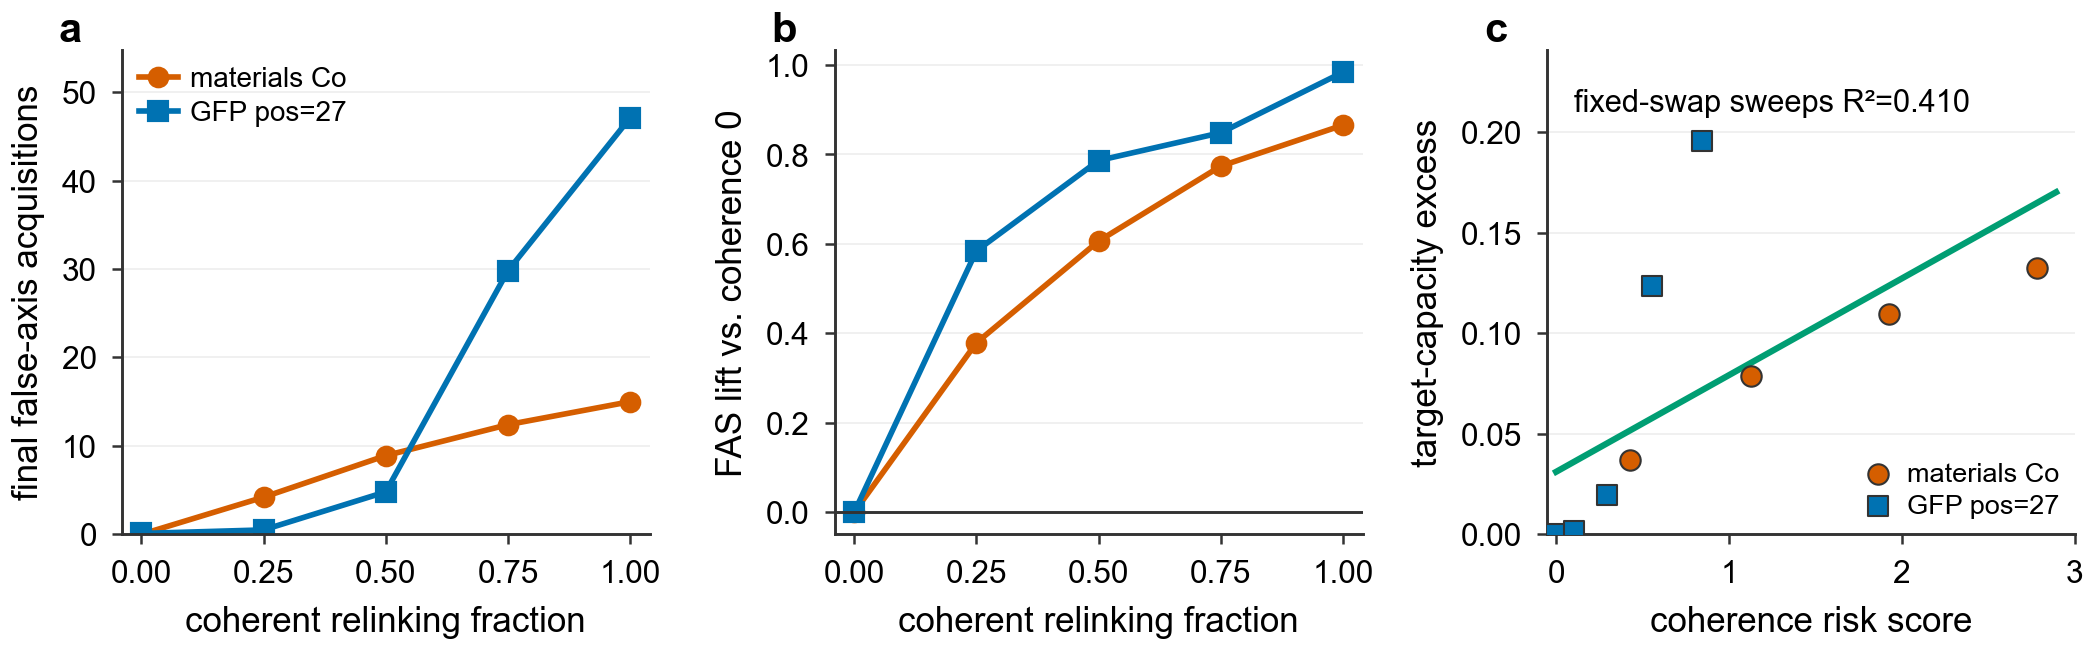
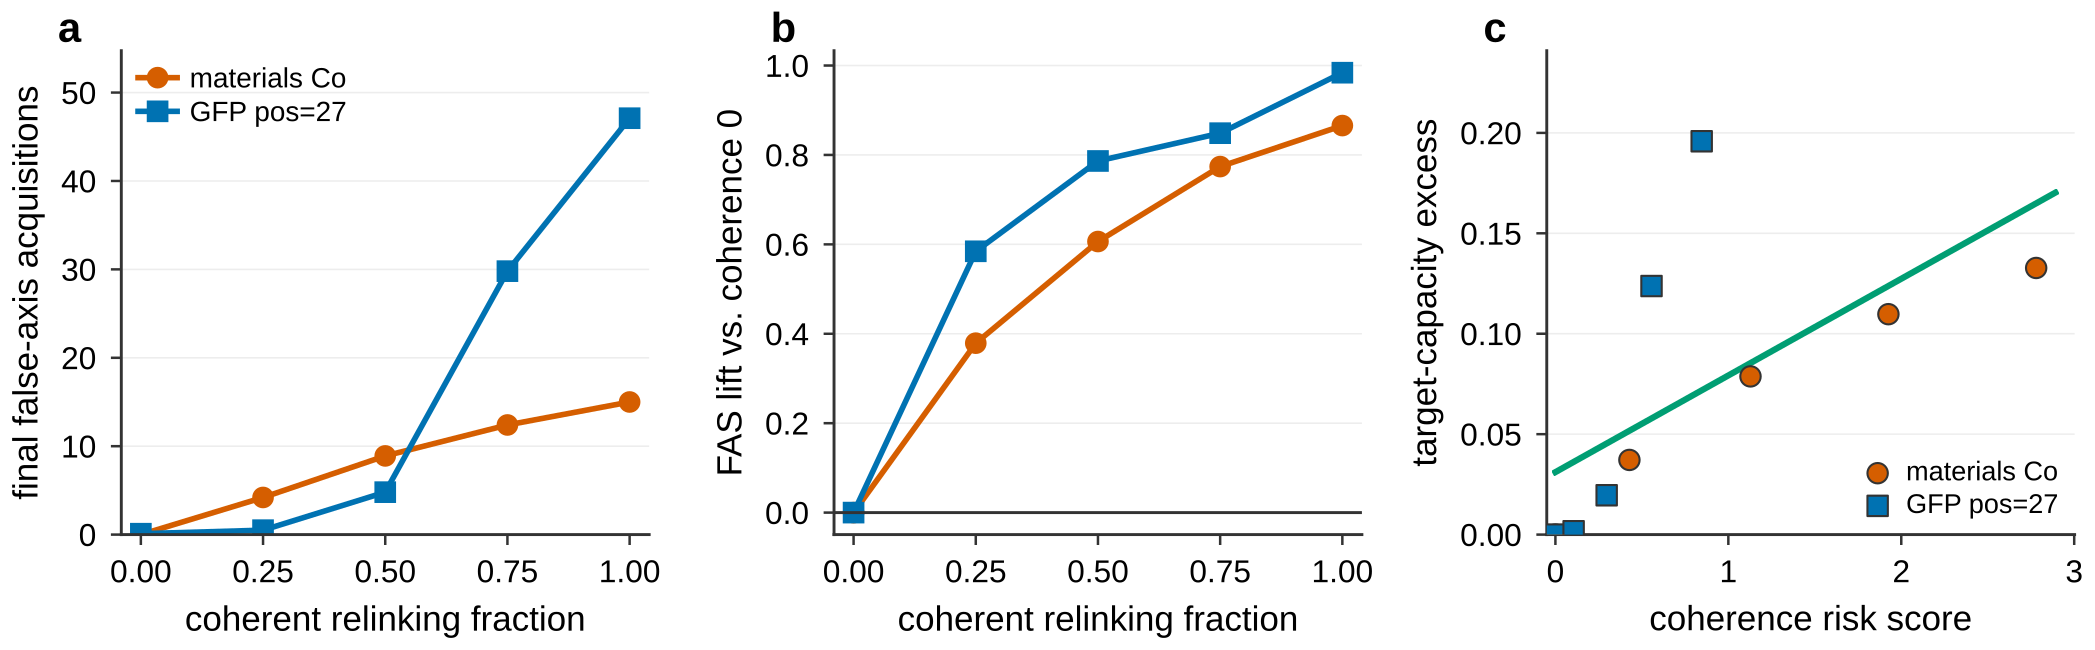
Remove internal R2 label from coherence figure

diff --git a/scripts/generate_b74_coherence_law_figure.py b/scripts/generate_b74_coherence_law_figure.py
@@ -143,15 +143,6 @@ def plot_risk_law(axis: plt.Axes, frame: pd.DataFrame) -> None:
             label=label,
         )
     axis.plot(x_line, y_line, color=OKABE_ITO["green"], linewidth=1.5)
-    axis.text(
-        0.05,
-        0.92,
-        f"fixed-swap sweeps R²={r2:.3f}",
-        transform=axis.transAxes,
-        ha="left",
-        va="top",
-        fontsize=7.4,
-    )
     axis.set_xlabel("coherence risk score")
     axis.set_ylabel("target-capacity excess")
     axis.set_xlim(-0.05, max(x) * 1.08)

diff --git a/tests/test_b74_coherence_law_figure.py b/tests/test_b74_coherence_law_figure.py
@@ -106,3 +106,4 @@ def test_b74_coherence_law_figure_generates_outputs(tmp_path: Path) -> None:
     assert (tmp_path / "b74.pdf").is_file()
     assert (tmp_path / "b74.png").is_file()
     assert (tmp_path / "b74.svg").is_file()
+    assert "fixed-swap sweeps" not in (tmp_path / "b74.svg").read_text(encoding="utf-8")